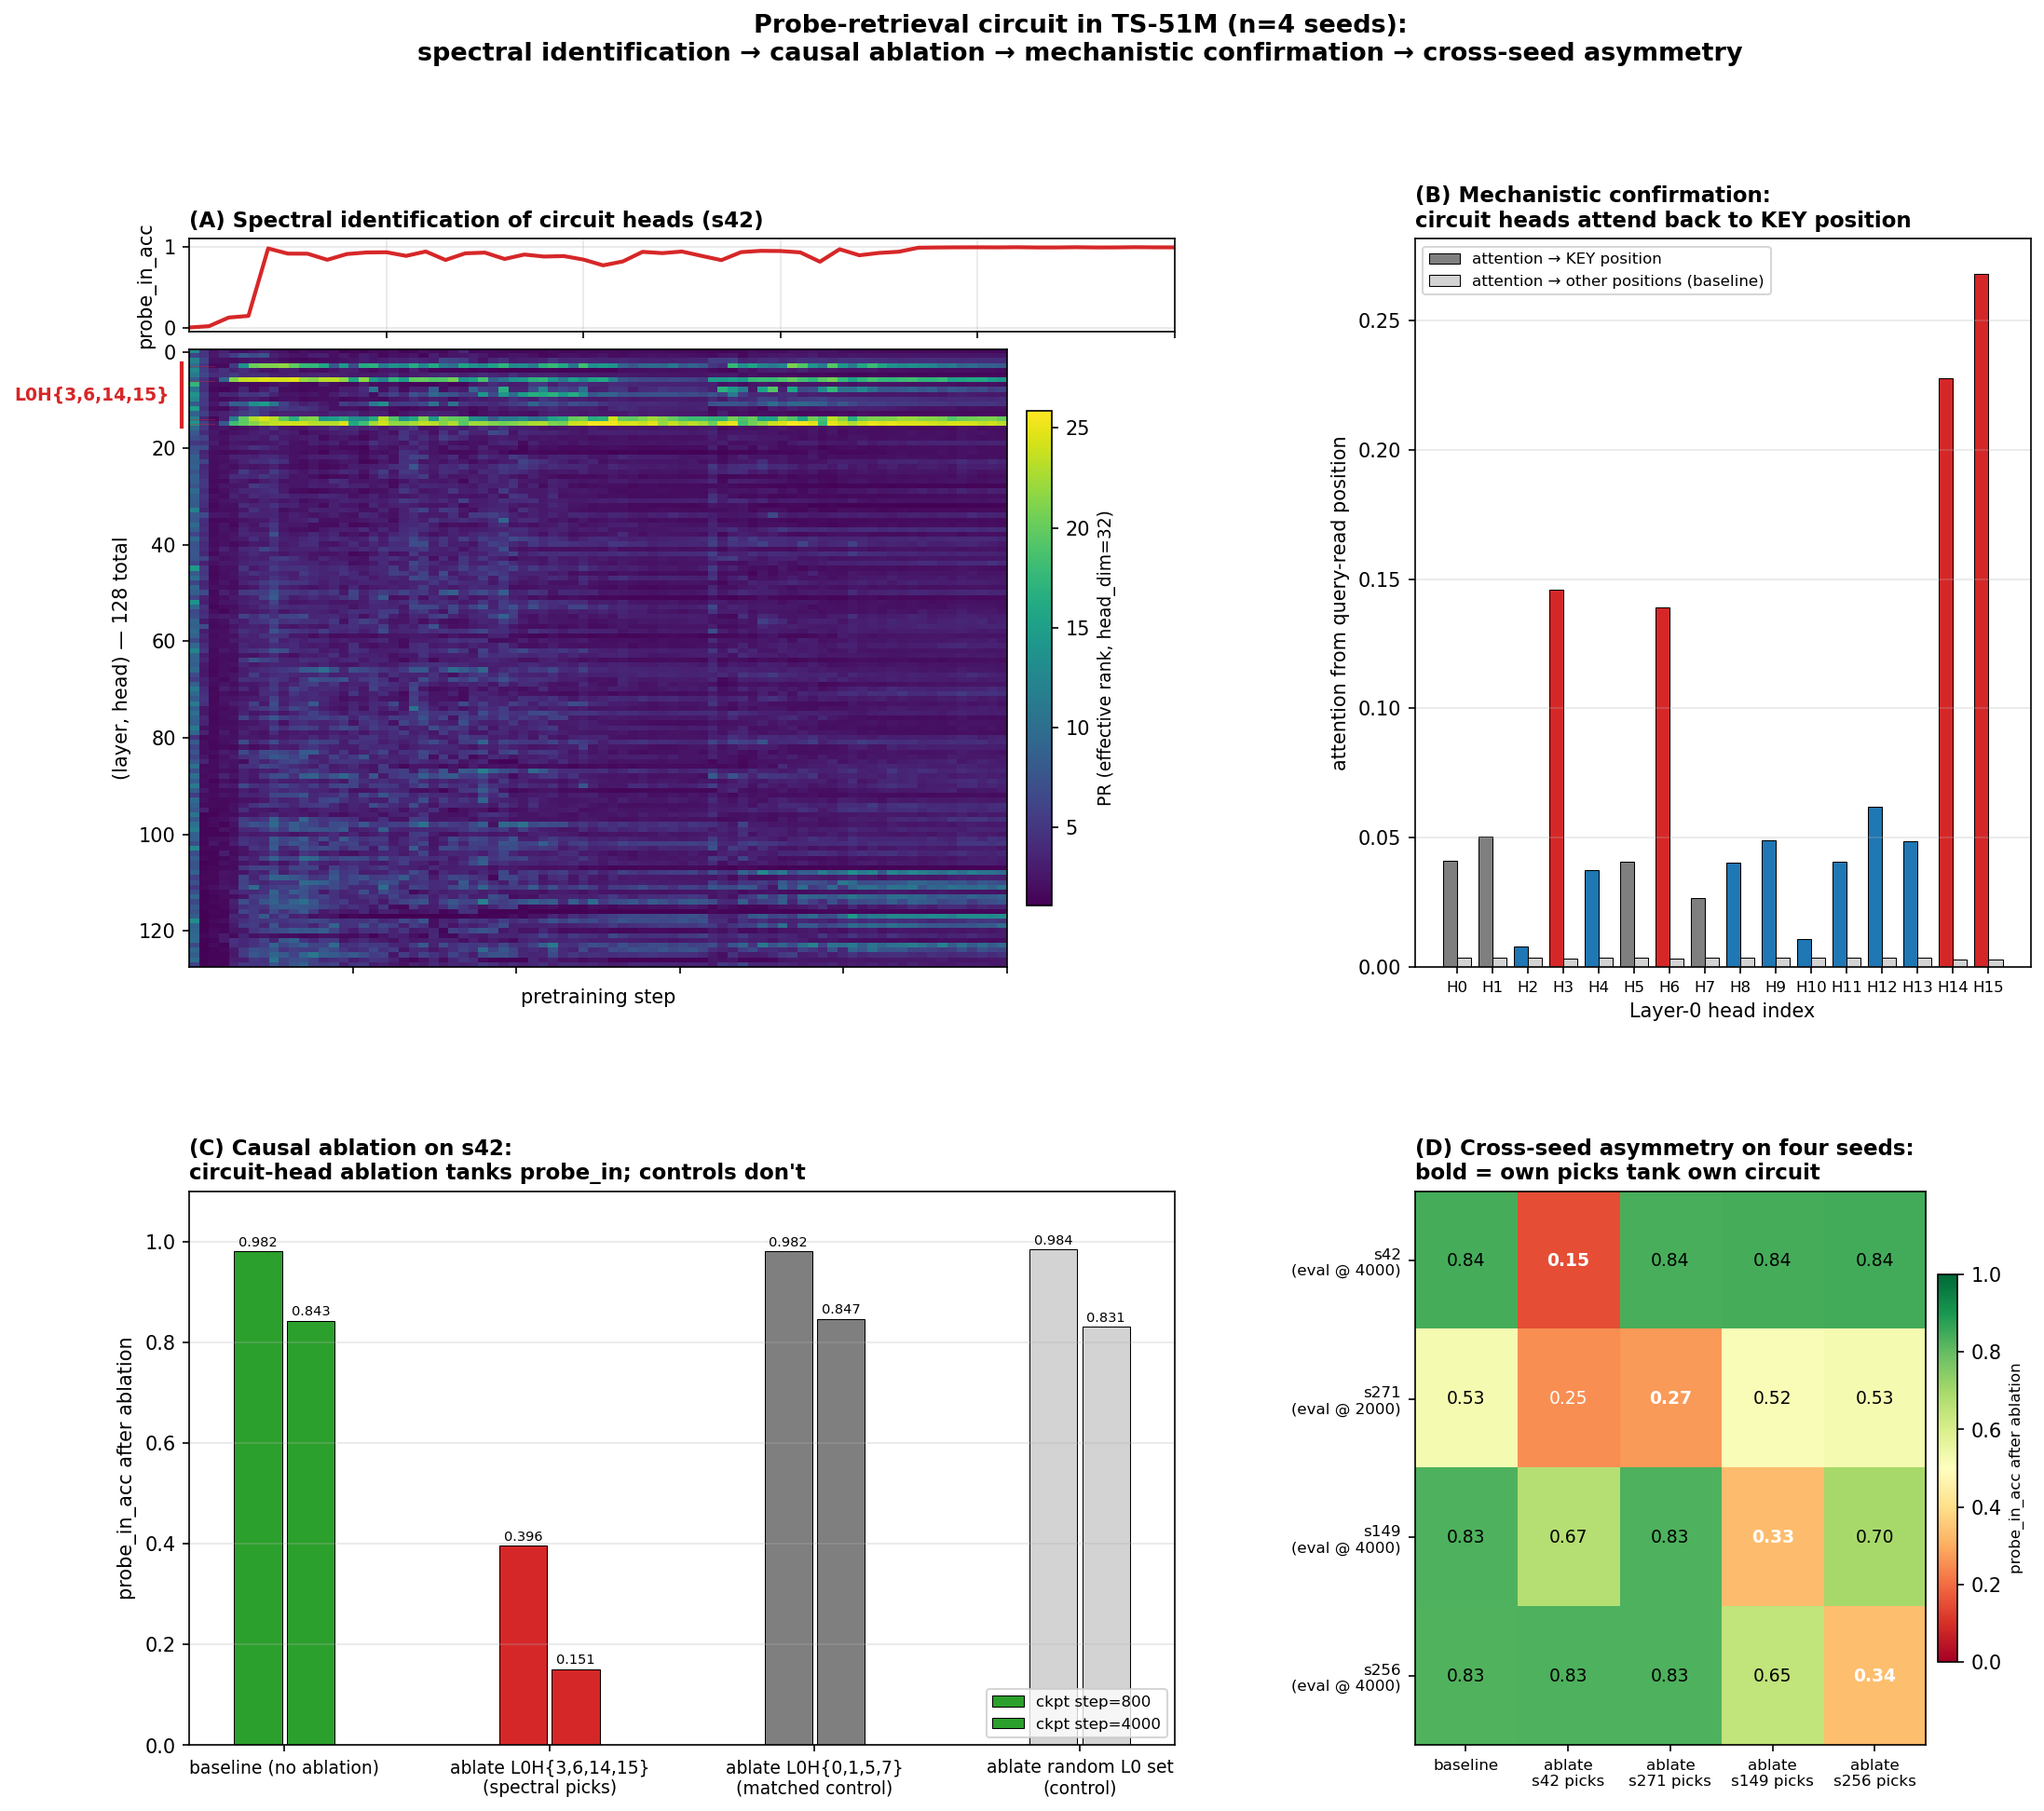
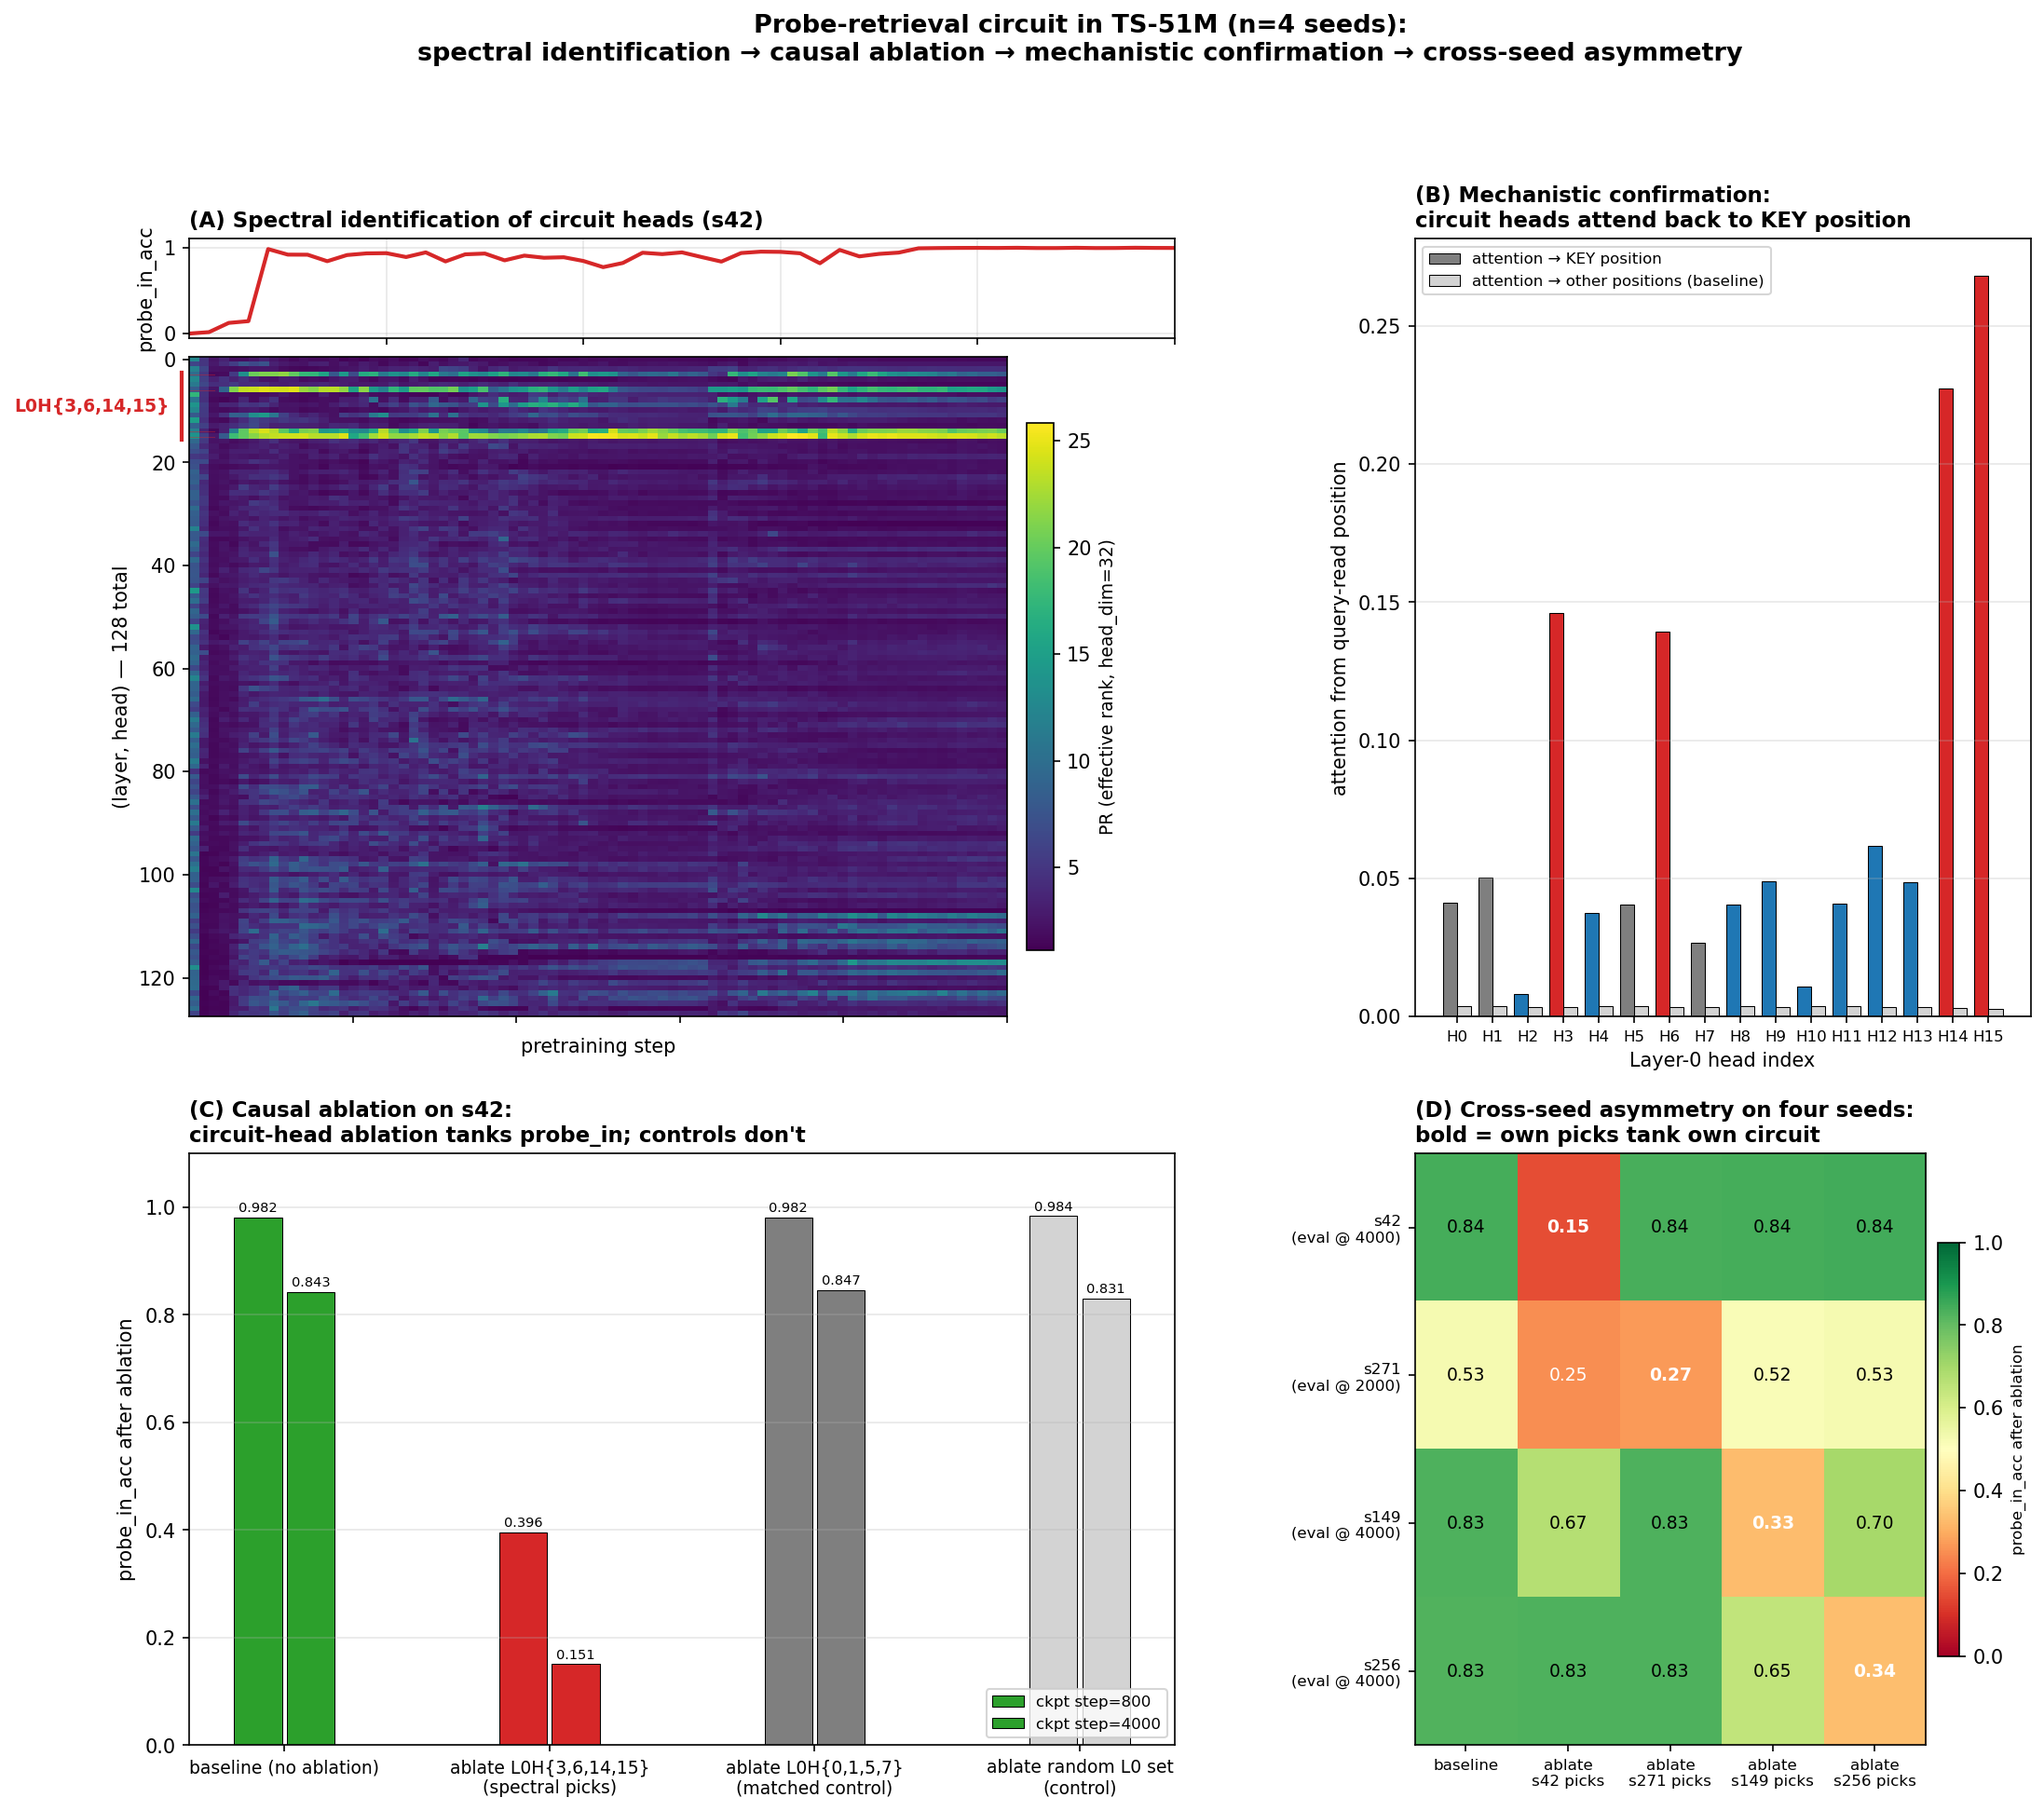
Tighten vertical gap between top and bottom panels (0.35 -> 0.20)

diff --git a/probe_circuit_headline_figure.py b/probe_circuit_headline_figure.py
@@ -63,7 +63,7 @@ def main():
     gs_outer = gridspec.GridSpec(
         2, 1,
         height_ratios=[4.6, 3.5],
-        hspace=0.35,
+        hspace=0.20,
     )
     gs_top = gridspec.GridSpecFromSubplotSpec(
         2, 2,
